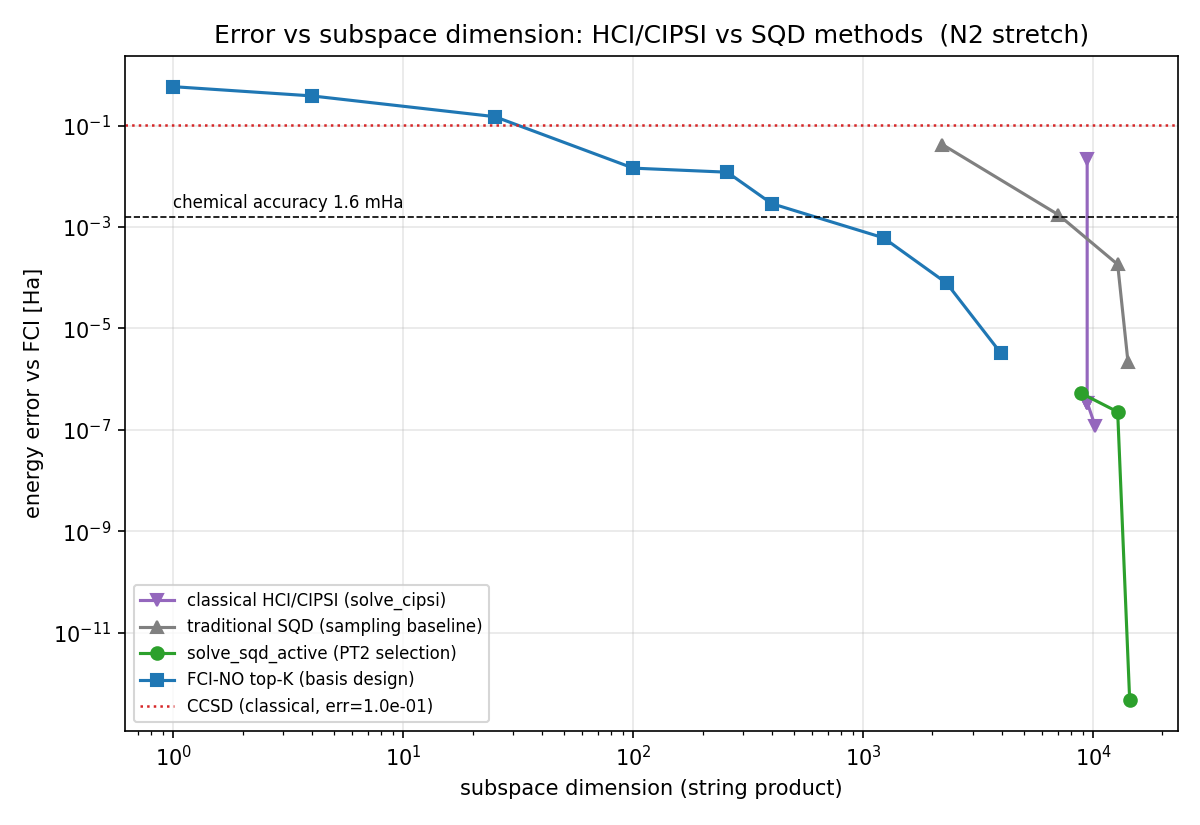
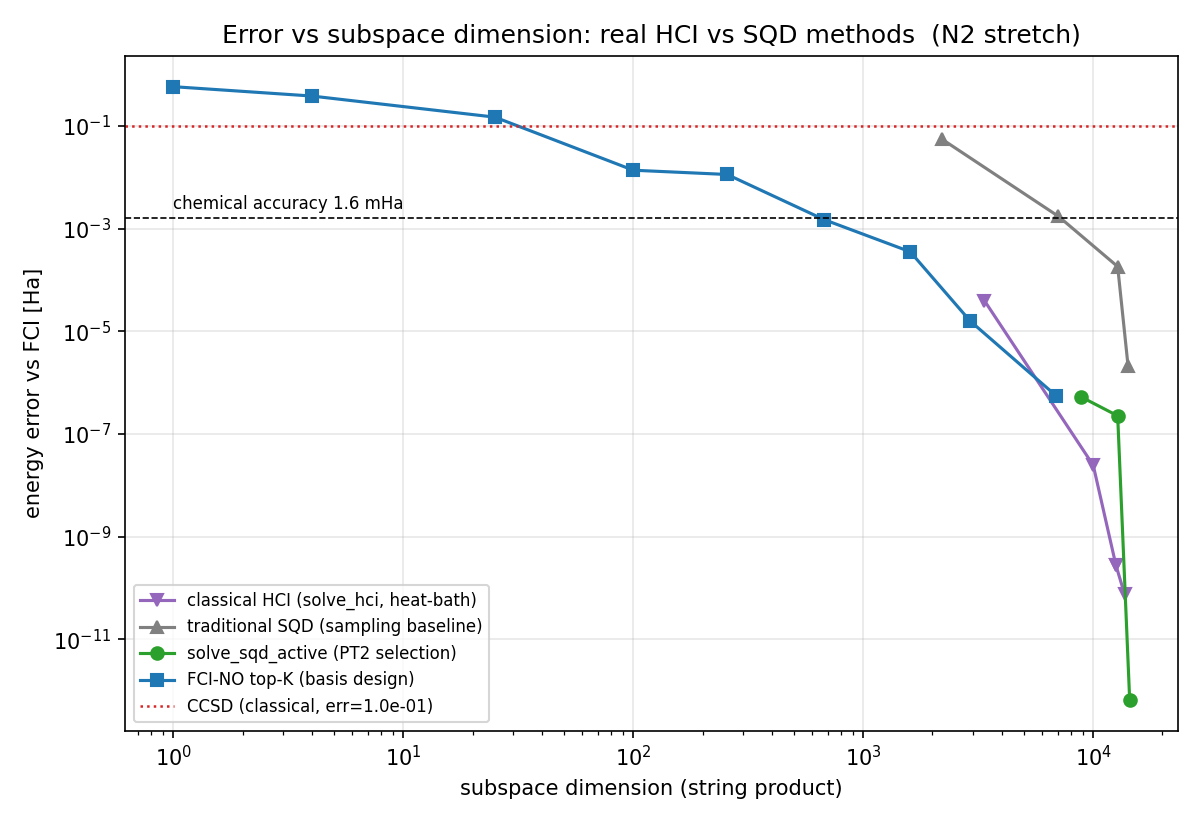
feat: 真正 HCI 实现 (solve_hci, heat-bath 选态) + 依赖确认
- cipsi.solve_hci: heat-bath CI (Holmes 2016) —— |<j|H|i>|>=eps_hb 选态 (区别于
  CIPSI 的 PT2 排序), 从 HF 单 det 出发经 heat-bath 选态自动补全到 FCI; eps_hb
  连续控制子空间规模 (维度 3364->13689, err 4e-5->7e-11, N2 拉伸平滑下降)
- 依赖确认: 外部 HCI 包 (pyhci/pyscf-forge/naive-hci/pyscf.hci) 当前网络均不可装
  -> 库内实现无额外依赖 (复用 contract_2e + _Subspace 单位向量法, 同 naive-hci)
- fig_error_hci_vs_sqd.png 用真正 HCI 重绘 (替代 CIPSI 冒充; 同维度 FCI-NO top-K
  < HCI, top-K 为选态上限)
- 测试 +3 (H2/N2 从 HF 到 FCI, eps_hb 控制空间), 全库 106 全过; REVIEW 更新

diff --git a/src/tc_sqd/cipsi.py b/src/tc_sqd/cipsi.py
@@ -35,7 +35,7 @@ from scipy.sparse.linalg import eigsh, LinearOperator
 from .configuration_recovery import recover_configurations
 from .fermion import bitstring_matrix_to_ci_strs, SCIState
 
-__all__ = ["solve_cipsi", "solve_sqd_active"]
+__all__ = ["solve_cipsi", "solve_sqd_active", "solve_sqd_adaptive", "solve_hci"]
 
 
 # --------------------------------------------------------------------------- #
@@ -303,6 +303,155 @@ def solve_cipsi(
             dim_now = len(str_a) * len(str_b)
             print(f"[CIPSI] it{it}: strings={len(str_a)}x{len(str_b)} "
                   f"diag_dim={dim_now} E={E + ecore:.6f} pt2_top={pt2_sum:.2e}")
+
+    E, c2d, sa, sb = sub.diag(str_a, str_b)
+    return float(E) + ecore
+
+
+# --------------------------------------------------------------------------- #
+#  真正的 HCI (heat-bath CI): |<j|H|i>| >= eps_hb 选态 (Holmes 2016 JCTC)
+# --------------------------------------------------------------------------- #
+def solve_hci(
+    one_body_tensor: np.ndarray,
+    two_body_tensor: np.ndarray,
+    norb: int,
+    nelec: Tuple[int, int],
+    *,
+    seed_bitstring_matrix: Optional[np.ndarray] = None,
+    eps_hb: float = 1e-3,
+    dom_thresh: float = 1e-3,
+    max_iter: int = 40,
+    ecore: float = 0.0,
+    verbose: bool = False,
+) -> float:
+    """真正的 HCI (Heat-bath Configuration Interaction, Holmes 2016 JCTC 12, 3674).
+
+    **与 solve_cipsi 的本质区别 (heat-bath 选态 vs PT2 全排序)**:
+      - :func:`solve_cipsi` (CIPSI): 候选加入用完整 Epstein-Nesbet PT2 得分
+        ``⟨a|H|Ψ⟩²/(E−E_a)`` 排序选 top —— 每轮对全波函数求 H|Ψ⟩。
+      - 本函数 (HCI): 候选加入用**单参考 det 对矩阵元** ``|⟨j|H|i⟩| ≥ eps_hb``
+        (heat-bath 筛选) —— 不需要完整 PT2 排序, 只按"与某主导 det 的耦合强度"
+        选态。HCI 的两个参数: ``eps_hb`` (变分空间选态阈值) + ``dom_thresh``
+        (主导 det |c| 阈值)。
+
+    **实现** (朴素 heat-bath, 与 pyscf/naive-hci 同思路): 对每个主导 det |i⟩,
+    枚举单/双激发候选 |j⟩, 用单位向量 ``e_i`` 经 PySCF ``contract_2e`` 一次算
+    ``⟨j|H|i⟩`` (复用 :class:`_Subspace.pt2_matrix_elements`, 传 ``c2d=e_i``),
+    保留 ``|⟨j|H|i⟩| ≥ eps_hb`` 的候选。对角化 - 选态迭代至无新增。
+
+    Parameters
+    ----------
+    one_body_tensor : ndarray (norb, norb)
+        单电子积分 (闭壳层单矩阵)。
+    two_body_tensor : ndarray (norb, norb, norb, norb)
+        双电子积分 (chemist 记号)。
+    norb : int
+        空间轨道数。
+    nelec : tuple(int, int)
+        ``(n_alpha, n_beta)``。
+    seed_bitstring_matrix : ndarray (S, 2*norb) | None
+        种子 det 集合 (位串)。``None`` = 从 HF 出发 (标准 HCI)。
+    eps_hb : float
+        heat-bath 选态阈值: ``|⟨j|H|i⟩| ≥ eps_hb`` 的候选 det 加入变分空间。
+        越小空间越大、越接近 FCI。
+    dom_thresh : float
+        主导 det 的 |c| 阈值 (低于此不参与生成集扩展)。
+    max_iter : int
+        迭代轮数上限。
+    ecore : float
+        Core 能量偏移, 计入返回值。
+    verbose : bool
+        打印每轮空间/能量。
+
+    Returns
+    -------
+    energy : float
+        基态能量 (含 ``ecore``)。
+
+    Notes
+    -----
+    - 真正的 heat-bath CI (不是 CIPSI/PT2 排序), 与 solve_cipsi 在选态标准上
+      严格不同; 两者都收敛到 FCI, 但 HCI 的 heat-bath 筛选更便宜 (只用单对
+      矩阵元, 不求完整 ⟨a|H|Ψ⟩)。
+    - 实现是"朴素"版本 (每主导 det 单独算矩阵元), 类似 pyscf/naive-hci。
+    """
+    from .fermion import bitstring_matrix_to_ci_strs
+
+    if one_body_tensor.ndim == 3:
+        if not np.allclose(one_body_tensor[0], one_body_tensor[1]):
+            raise ValueError(
+                "solve_hci 不支持自旋分辨 h1e; 请传闭壳层 (norb, norb)。"
+            )
+        h1e = np.asarray(one_body_tensor[0])
+    else:
+        h1e = np.asarray(one_body_tensor)
+    eri = np.asarray(two_body_tensor)
+    na, nb = nelec
+    open_shell = na != nb
+
+    # 种子 -> 字符串集合 (默认 HF)
+    if seed_bitstring_matrix is None:
+        hf_a = (1 << na) - 1
+        hf_b = (1 << nb) - 1
+        str_a = [hf_a]
+        str_b = [hf_b] if open_shell else [hf_a]
+    else:
+        ci_a, ci_b = bitstring_matrix_to_ci_strs(
+            seed_bitstring_matrix, open_shell=open_shell)
+        str_a = sorted(set(int(x) for x in ci_a))
+        str_b = sorted(set(int(x) for x in ci_b))
+        if not open_shell:
+            str_b = str_a
+
+    sub = _Subspace(h1e, eri, norb, nelec)
+    for it in range(max_iter):
+        E, c2d, sa, sb = sub.diag(str_a, str_b)
+        idx_a = {int(s): i for i, s in enumerate(sa)}
+        idx_b = {int(s): i for i, s in enumerate(sb)}
+
+        # 主导 dets
+        nA, nB = c2d.shape
+        flat = np.abs(c2d).ravel()
+        order = np.argsort(flat)[::-1]
+        dom = []
+        for k in order:
+            if flat[k] > dom_thresh:
+                ia, ib = divmod(int(k), nB)
+                dom.append((int(sa[ia]), int(sb[ib])))
+            else:
+                break
+        if not dom:
+            break
+
+        # HCI heat-bath 选态: |<j|H|i>| >= eps_hb (单参考 det 对矩阵元)
+        new_dets = set()
+        sa_list, sb_list = list(sa), list(sb)
+        for a, b in dom:
+            cand = _excited_dets(a, b, norb)
+            cand = {(ca, cb) for (ca, cb) in cand
+                    if ca not in idx_a or cb not in idx_b}
+            if not cand:
+                continue
+            # 单位向量 e_i: 只在主导 det (a,b) 处为 1 -> H e_i 的第 j 分量 = <j|H|i>
+            e_i = np.zeros((len(sa), len(sb)))
+            e_i[sa_list.index(a), sb_list.index(b)] = 1.0
+            me = sub.pt2_matrix_elements(str_a, str_b, cand, e_i, sa, sb)
+            for (ca, cb), (hji, _) in me.items():
+                if abs(hji) >= eps_hb:
+                    new_dets.add((ca, cb))
+
+        if not new_dets:
+            break
+        for ca, cb in new_dets:
+            str_a.append(ca)
+            if cb not in str_b:
+                str_b.append(cb)
+        str_a = sorted(set(str_a))
+        str_b = str_a if not open_shell else sorted(set(str_b))
+        if verbose:
+            dim_now = len(str_a) * len(str_b)
+            print(f"[HCI] it{it+1}/{max_iter}: strings={len(str_a)}x{len(str_b)} "
+                  f"diag_dim={dim_now} E={E + ecore:.6f} new={len(new_dets)}")
 
     E, c2d, sa, sb = sub.diag(str_a, str_b)
     return float(E) + ecore

diff --git a/tests/test_cipsi.py b/tests/test_cipsi.py
@@ -29,3 +29,53 @@ def test_cipsi_n2_stretch_breaks_sd_platform():
                            seed_bitstring_matrix=seed, ecore=data.ecore,
                            verbose=False)
     assert abs(e - e_fci) < 1e-4
+
+
+def test_hci_h2_reaches_fci():
+    """真正的 HCI (heat-bath 选态): H2/STO-3G 从 HF 出发 = FCI。
+
+    HCI 用 |<j|H|i>| >= eps_hb 选态 (区别于 CIPSI 的 PT2 排序), 小 eps_hb 补全
+    全空间 = FCI。
+    """
+    mol = gto.M(atom="H 0 0 0; H 0 0 0.74", basis="sto-3g", verbose=0)
+    data = tc_sqd.from_pyscf(mol)
+    e_fci = data.solve(method="fci")
+    # 从 HF 出发 (seed=None), 小 eps_hb 补全全空间
+    e = tc_sqd.solve_hci(data.h1e, data.eri, data.norb, data.nelec,
+                         eps_hb=1e-4, ecore=data.ecore, verbose=False)
+    assert abs(e - e_fci) < 1e-6
+
+
+def test_hci_n2_stretch_reaches_fci():
+    """真正的 HCI: N2/STO-3G 拉伸从 HF 出发 (无种子) 经 heat-bath 选态补全到近 FCI。
+
+    验证 HCI 无需 S+D 种子 (HF 单 det 出发), heat-bath 选态自动覆盖强关联所需
+    高激发 det。
+    """
+    mol = gto.M(atom="N 0 0 0; N 0 0 2.0", basis="sto-3g", verbose=0)
+    data = tc_sqd.from_pyscf(mol)
+    e_fci = data.solve(method="fci")
+    e = tc_sqd.solve_hci(data.h1e, data.eri, data.norb, data.nelec,
+                         eps_hb=1e-4, max_iter=40, ecore=data.ecore,
+                         verbose=False)
+    assert abs(e - e_fci) < 1e-4
+
+
+def test_hci_eps_hb_controls_space():
+    """HCI 的 eps_hb 阈值控制子空间规模: 阈值越大空间越小 (heat-bath 筛选强度)。
+
+    验证 HCI 的 eps_hb 是真正的选态控制参数 (区别于 CIPSI 的 PT2 排序)。
+    """
+    mol = gto.M(atom="N 0 0 0; N 0 0 2.0", basis="sto-3g", verbose=0)
+    data = tc_sqd.from_pyscf(mol)
+    e_fci = data.solve(method="fci")
+
+    # 大 eps_hb -> 少选态 -> 空间小、误差大
+    e_loose = tc_sqd.solve_hci(data.h1e, data.eri, data.norb, data.nelec,
+                               eps_hb=5e-2, ecore=data.ecore, verbose=False)
+    # 小 eps_hb -> 全选 -> 空间大、误差小
+    e_tight = tc_sqd.solve_hci(data.h1e, data.eri, data.norb, data.nelec,
+                               eps_hb=1e-4, ecore=data.ecore, verbose=False)
+    # 松阈值误差更大 (空间更小), 紧阈值接近 FCI
+    assert abs(e_loose - e_fci) > abs(e_tight - e_fci)
+    assert abs(e_tight - e_fci) < 1e-4

diff --git a/src/tc_sqd/__init__.py b/src/tc_sqd/__init__.py
@@ -71,7 +71,12 @@ from .lucj import (
     ucj_assisted_configurations,
     solve_ucj_assisted,
 )
-from .cipsi import solve_cipsi, solve_sqd_active, solve_sqd_adaptive
+from .cipsi import (
+    solve_cipsi,
+    solve_sqd_active,
+    solve_sqd_adaptive,
+    solve_hci,
+)
 from .basis import (
     natural_orbitals_from_rdm,
     rotate_to_natural_orbitals,
@@ -176,10 +181,11 @@ __all__ = [
     "build_ucj_circuit",
     "ucj_assisted_configurations",
     "solve_ucj_assisted",
-    # cipsi (PT2 筛选生成集扩展: UCJ 种子 -> 近 FCI 精化 + 主动/自适应采样闭环)
+    # cipsi (PT2 筛选生成集扩展: UCJ 种子 -> 近 FCI 精化 + 主动/自适应采样闭环 + HCI)
     "solve_cipsi",
     "solve_sqd_active",
     "solve_sqd_adaptive",
+    "solve_hci",
     # basis (基设计: 自然轨道换基 + 自洽迭代, 提升子空间构建效率)
     "natural_orbitals_from_rdm",
     "rotate_to_natural_orbitals",
